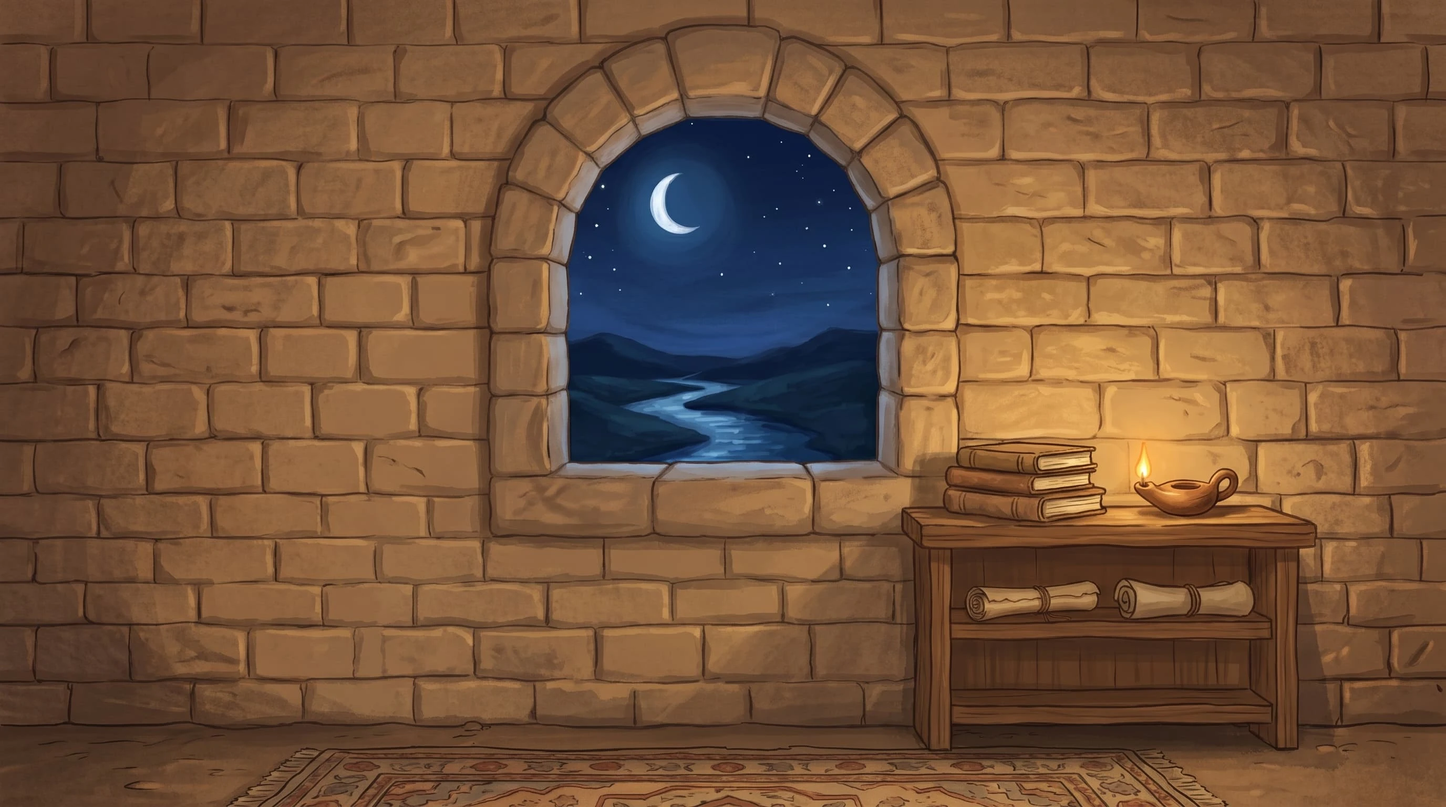
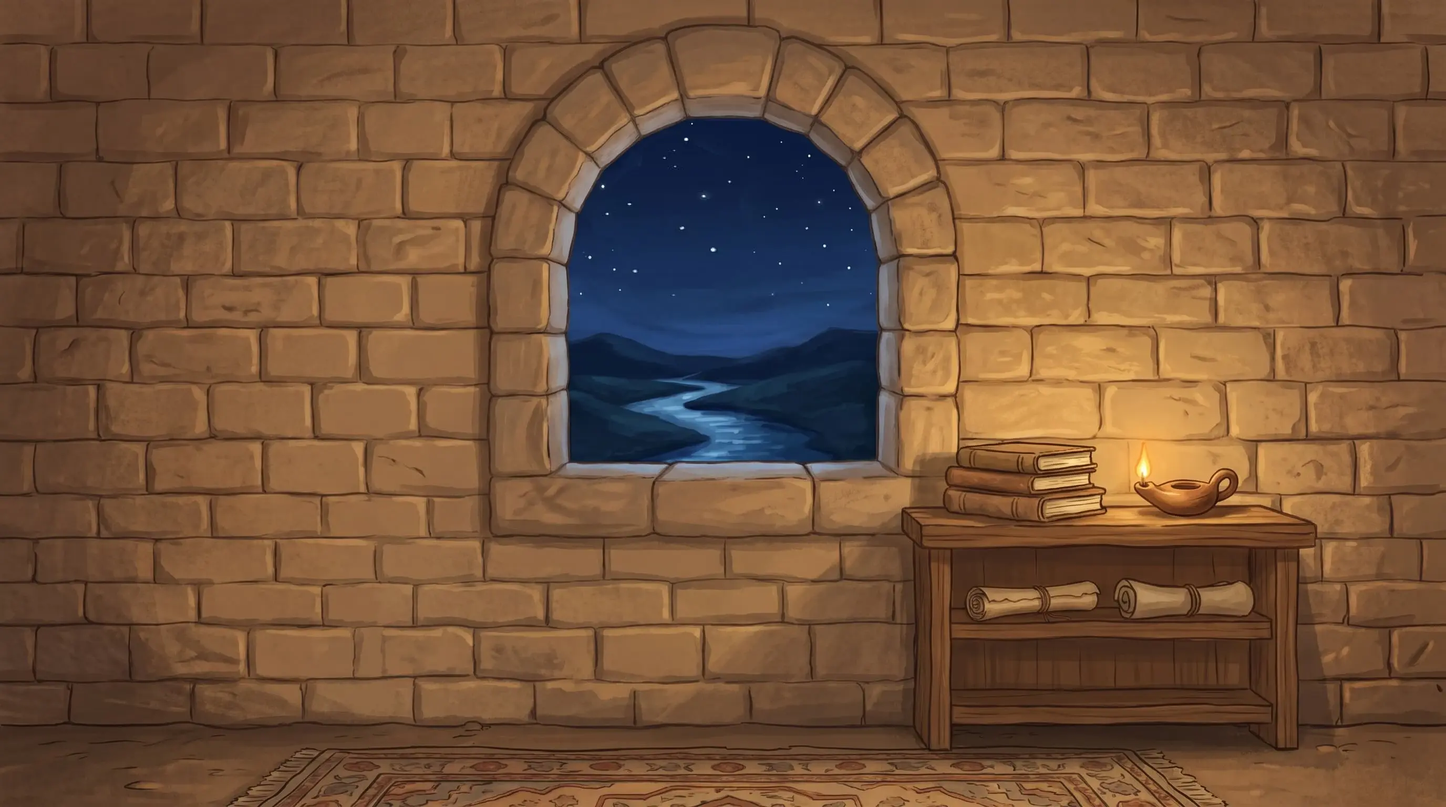
fix: Giriş buton metni 'Dinle' olarak güncellendi ve güncel duvar4 görseli entegre edildi

Changed region(s): [[0.4062, 0.1875, 0.5, 0.3125]]

diff --git a/index.html b/index.html
@@ -73,9 +73,9 @@
             <span>Odayı gezmek için ekranı kaydırın veya yön oklarını kullanın</span>
           </div>
           <div class="intro-actions">
-            <button id="intro-audio-btn" type="button" class="btn-intro-audio" aria-label="Sesli dinle" data-label-play="Sesli Dinle" data-label-stop="Durdur">
+            <button id="intro-audio-btn" type="button" class="btn-intro-audio" aria-label="Dinle" data-label-play="Dinle" data-label-stop="Durdur">
               <span class="audio-btn-icon" aria-hidden="true">🔊</span>
-              <span class="audio-btn-label">Sesli Dinle</span>
+              <span class="audio-btn-label">Dinle</span>
             </button>
             <button id="intro-start-btn" type="button" class="btn-primary intro-start-btn">
               Başla ▶
@@ -108,7 +108,7 @@
                 id="card-audio-btn"
                 type="button"
                 class="btn-card-audio"
-                aria-label="Sesli dinle"
+                aria-label="Dinle"
                 data-label-play="Dinle"
                 data-label-stop="Durdur"
               >
